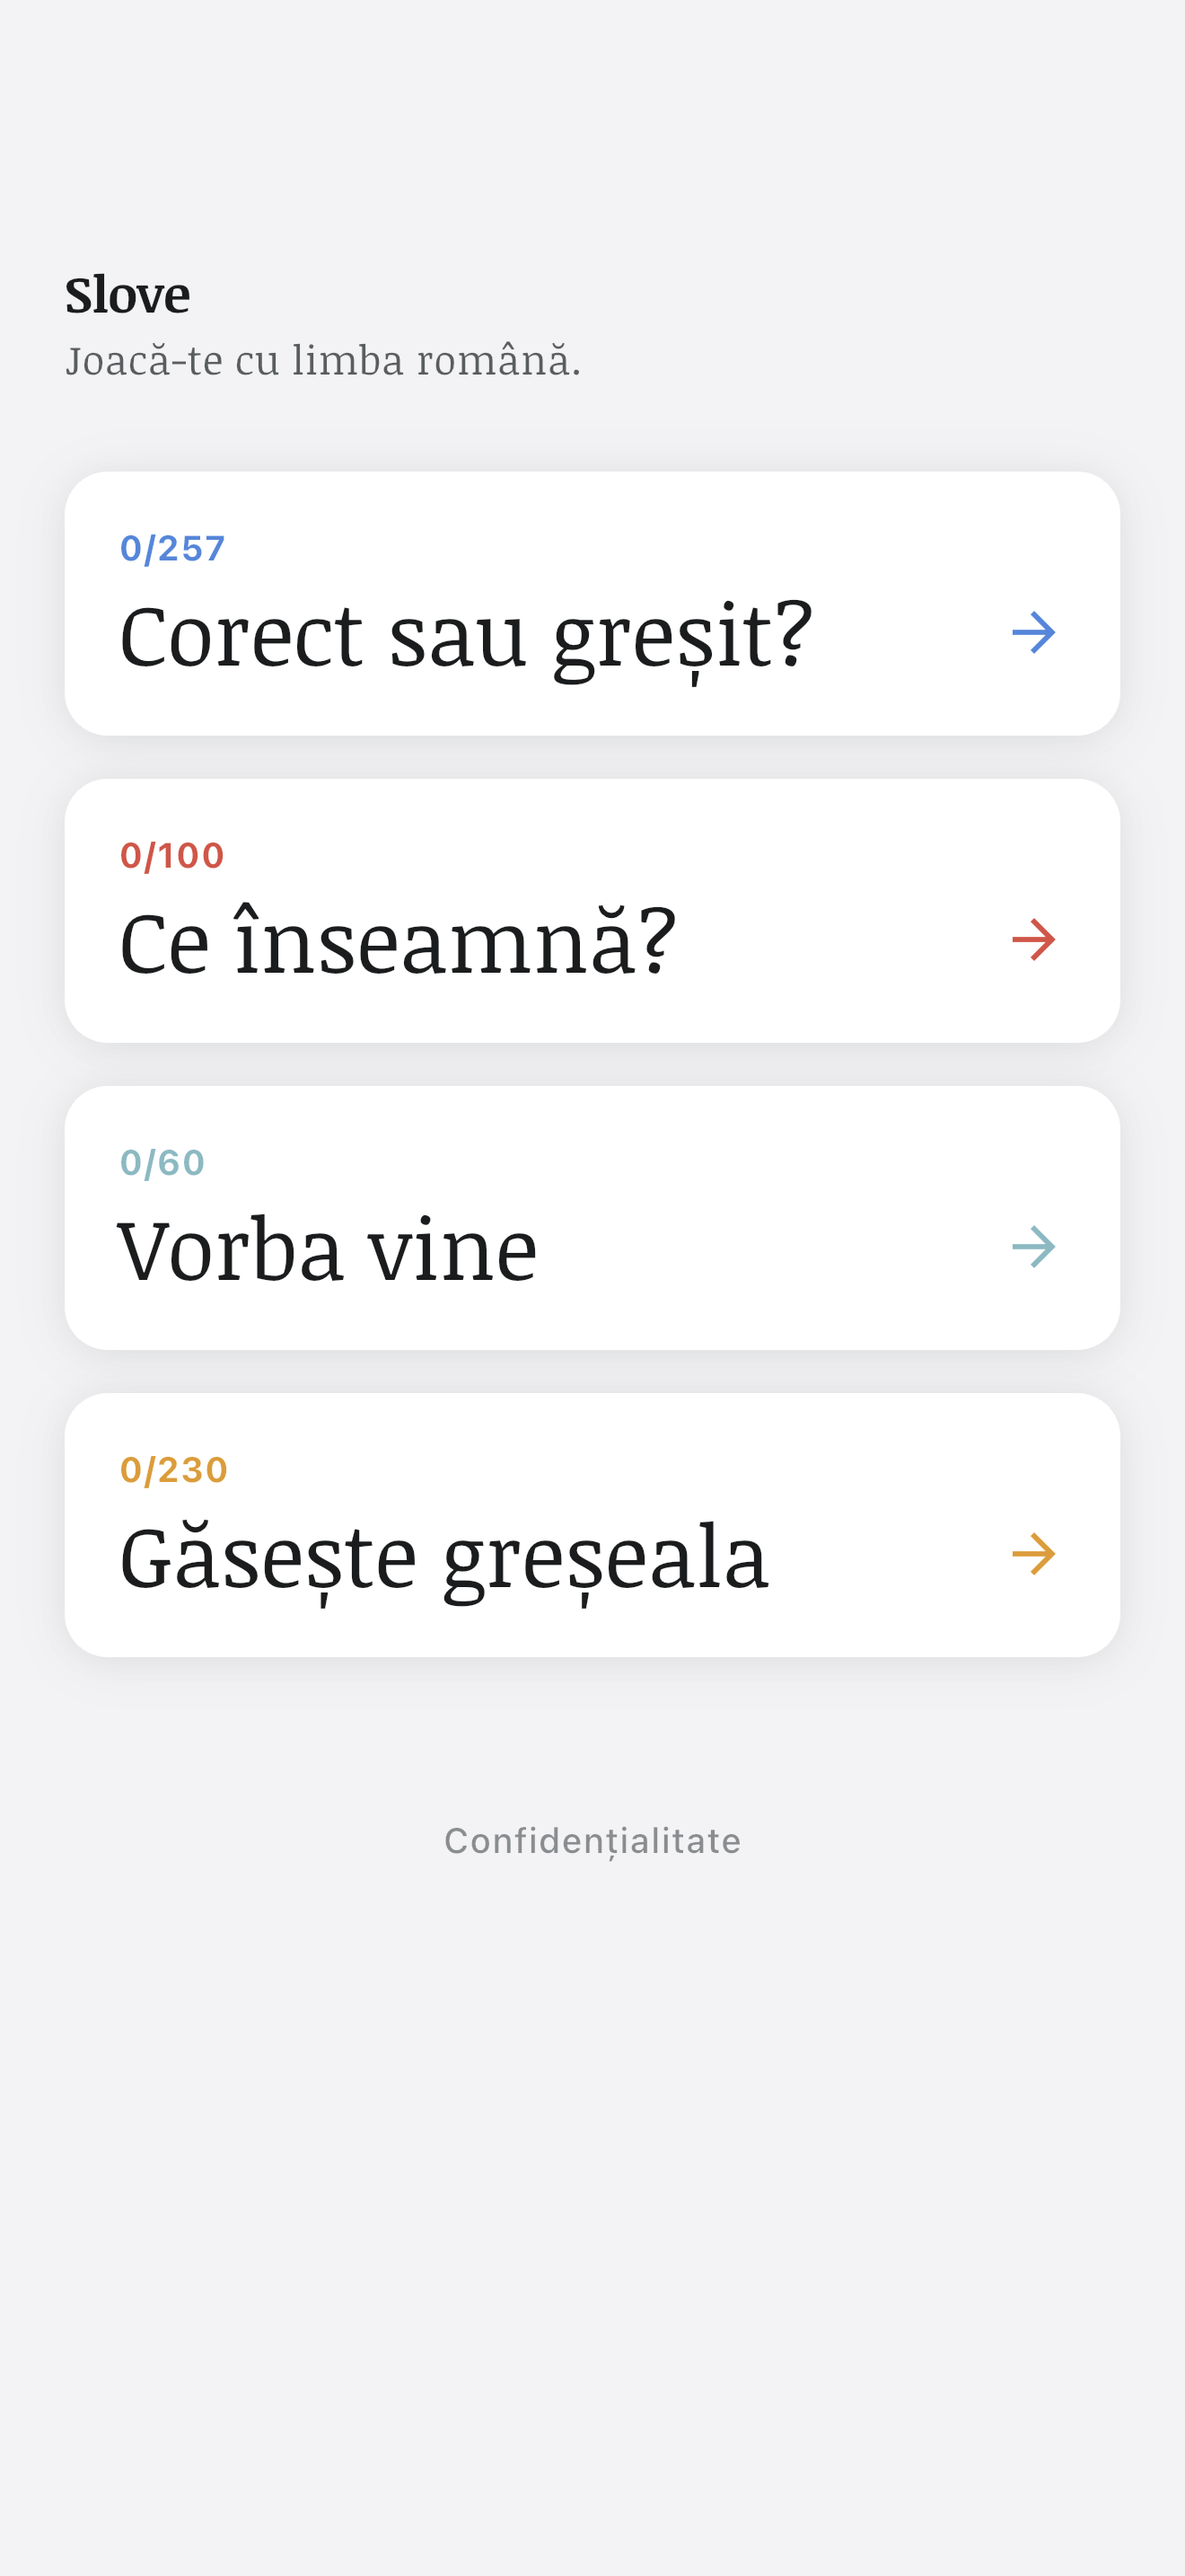
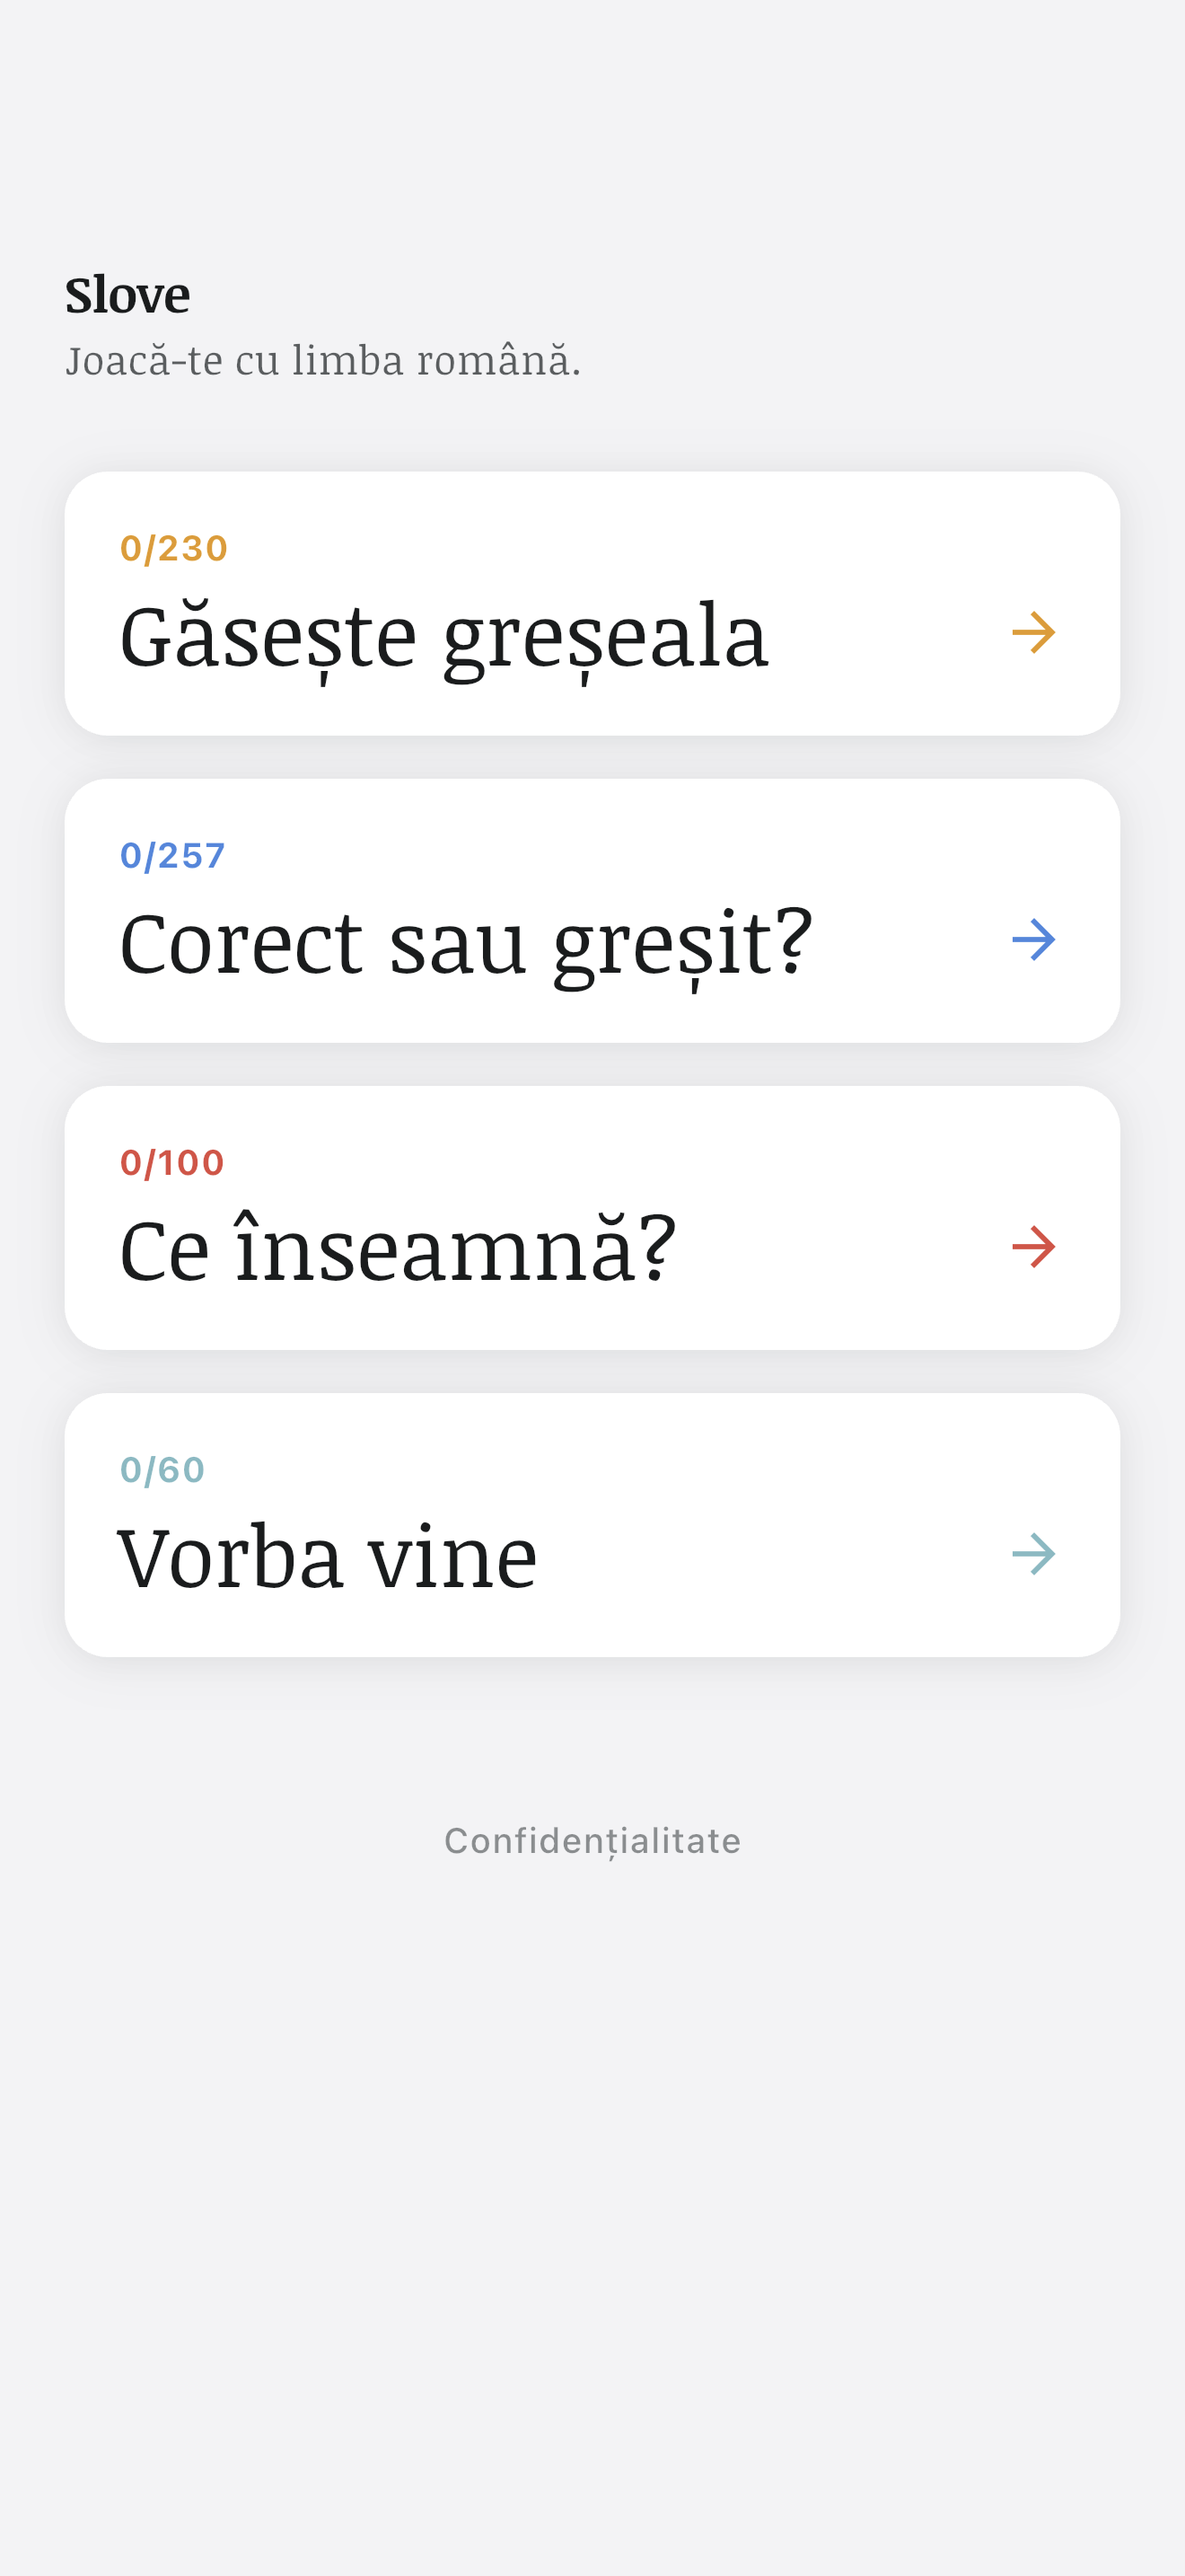
Update Slove privacy copy, FAQ and game order

diff --git a/src/styles/global.css b/src/styles/global.css
@@ -111,7 +111,12 @@ p { margin: 0 0 1rem; }
 .game-card { border: 1px solid var(--line); border-radius: 1rem; padding: 1.4rem; }
 .game-card p { color: var(--muted); margin-bottom: 0; }
 .game-number { color: var(--coral); font-size: .85rem; font-weight: 700; margin-bottom: 1.2rem; }
-.game-number-2 { color: var(--blue); }.game-number-3 { color: var(--amber); }.game-number-4 { color: #52a860; }
+.game-number-1 { color: var(--amber); }.game-number-2 { color: var(--blue); }.game-number-3 { color: var(--coral); }.game-number-4 { color: #52a860; }
+.faq-section h2 { margin-bottom: 2rem; }
+.faq-list { display: grid; gap: 1.5rem; grid-template-columns: repeat(2, minmax(0, 1fr)); margin: 0; }
+.faq-list > div { border-top: 1px solid var(--line); padding-top: 1.25rem; }
+.faq-list dt { font-size: 1.3rem; font-weight: 700; margin-bottom: .5rem; }
+.faq-list dd { color: var(--muted); margin: 0; }
 .screenshot-gallery { display: grid; gap: 1.25rem; grid-template-columns: repeat(4, minmax(0, 1fr)); }
 .screenshot-card { margin: 0; }
 .screenshot-placeholder { align-items: center; aspect-ratio: 660 / 1434; background: var(--blue-soft); border: 1px solid var(--line); border-radius: 1rem; color: var(--muted); display: flex; justify-content: center; padding: 1rem; text-align: center; }
@@ -138,6 +143,7 @@ p { margin: 0 0 1rem; }
   .app-card { border-radius: clamp(1.25rem, 4vw, 1.75rem); grid-template-columns: 1fr; min-height: 0; padding: 1.75rem 1.5rem; }
   .app-card-preview { justify-self: center; max-width: 220px; width: clamp(140px, 26dvh, 220px); }
   .game-grid, .screenshot-gallery { grid-template-columns: repeat(2, minmax(0, 1fr)); }
+  .faq-list { grid-template-columns: 1fr; }
   .screenshot-card figcaption { font-size: .78rem; }
   .shape-blue { height: 60vmax; left: -26vmax; top: -34vmax; width: 60vmax; }
   .shape-yellow { height: 50vmax; right: -22vmax; top: -24vmax; width: 50vmax; }

diff --git a/src/data/apps.ts b/src/data/apps.ts
@@ -37,6 +37,12 @@ export const slove: DidactivApp = {
   previewImageAlt: 'Ecranul principal Slove cu lista de jocuri',
   games: [
     {
+      title: 'Găsește greșeala',
+      description: 'Caută greșelile dintr-un text înainte să expire cele 60 de secunde.',
+      image: '/assets/screenshots/spot.png',
+      imageAlt: 'Ecran Slove pentru jocul Găsește greșeala',
+    },
+    {
       title: 'Corect sau greșit?',
       description: 'Alege varianta corectă și verifică-ți intuiția gramaticală.',
       image: '/assets/screenshots/grammar.png',
@@ -53,12 +59,6 @@ export const slove: DidactivApp = {
       description: 'Descoperă sensul expresiilor românești în contexte ușor de recunoscut.',
       image: '/assets/screenshots/idioms.png',
       imageAlt: 'Ecran Slove pentru jocul Vorba vine',
-    },
-    {
-      title: 'Găsește greșeala',
-      description: 'Caută greșelile dintr-un text înainte să expire cele 60 de secunde.',
-      image: '/assets/screenshots/spot.png',
-      imageAlt: 'Ecran Slove pentru jocul Găsește greșeala',
     },
   ],
 };

diff --git a/src/content/privacy-policy-slove.md b/src/content/privacy-policy-slove.md
@@ -1,22 +1,20 @@
 # Politica de confidențialitate Slove
 
-**Ultima actualizare:** 7 august 2026
+**Ultima actualizare:** 23 septembrie 2026
 
-Slove este dezvoltată de un creator independent. Această politică explică ce informații folosim și ce rămâne doar pe dispozitivul utilizatorului.
+Slove este dezvoltată de un creator independent. Aplicația poate fi folosită de persoane de orice vârstă. Nu necesită cont și nu urmărește utilizarea, nu afișează reclame și nu folosește identificatori de publicitate.
 
 ## Ce date colectăm
 
-Slove colectează un set minimal de date anonime pentru a înțelege cum sunt folosite jocurile. Folosim Firebase Analytics fără nume sau cont și înregistrăm doar: deschiderea unui joc, finalizarea lui (cu scorul și durata în secunde) și abandonarea unui joc înainte de final. Nu trimitem răspunsurile, textele introduse, progresul de învățare, numele, adresa de email sau orice altă dată personală.
-
-Firebase Analytics poate colecta automat informații tehnice precum un identificator al instalării, modelul dispozitivului, sistemul de operare, versiunea aplicației, limba și regiunea aproximativă.
-
-## Cum folosim datele
-
-Folosim datele numai pentru statistici agregate, evaluarea funcțiilor aplicației și îmbunătățirea jocurilor. Nu folosim datele pentru reclame personalizate și nu vindem datele. Google procesează datele prin serviciul Firebase Analytics, conform propriilor condiții și măsuri de securitate.
+Slove nu colectează și nu transmite date despre utilizarea jocurilor. Nu trimitem răspunsurile, textele introduse, scorurile sau progresul de învățare și nu solicităm numele, adresa de email, identificatori de publicitate ori date de localizare.
 
 ## Progresul de învățare
 
-Răspunsurile corecte și greșite și progresul de învățare sunt stocate local pe dispozitiv. Aceste date nu sunt trimise la Firebase și nu sunt asociate cu statisticile de utilizare.
+Răspunsurile corecte și greșite și progresul de învățare sunt stocate local pe dispozitiv. Aceste date nu părăsesc dispozitivul și nu sunt asociate cu un cont.
+
+## Cum folosim datele
+
+Jocurile și progresul funcționează local și offline. Când există o conexiune, aplicația poate verifica și descărca actualizări statice pentru exerciții. Cererea de descărcare ajunge la furnizorul de găzduire, care poate procesa metadatele tehnice obișnuite ale conexiunii, precum adresa IP, în conformitate cu propriile practici. Aceste cereri nu includ răspunsuri, scoruri sau progres. Nu folosim datele pentru reclame și nu vindem date.
 
 ## Linkuri externe
 
@@ -24,8 +22,8 @@ Unele explicații pot deschide în browser pagini ale Dicționarului Ortografic,
 
 ## Copii
 
-Slove nu este destinată copiilor sub 13 ani și nu colectează cu bună știință date de la aceștia.
+Slove poate fi folosită și de copii sub 13 ani. Nu colectăm prin Slove date de identificare sau date de utilizare de la copii; progresul rămâne doar pe dispozitiv.
 
 ## Modificări și contact
 
-Putem actualiza această politică atunci când se schimbă aplicația sau cerințele legale. Versiunea curentă este disponibilă permanent în aplicație. Pentru întrebări despre confidențialitate, utilizatorii pot folosi datele de contact ale dezvoltatorului afișate în pagina aplicației din magazin.
+Putem actualiza această politică atunci când se schimbă aplicația sau cerințele legale. Versiunea curentă este disponibilă permanent în aplicație. Pentru întrebări despre confidențialitate, utilizatorii pot folosi adresa contact@didactiv.ro.
